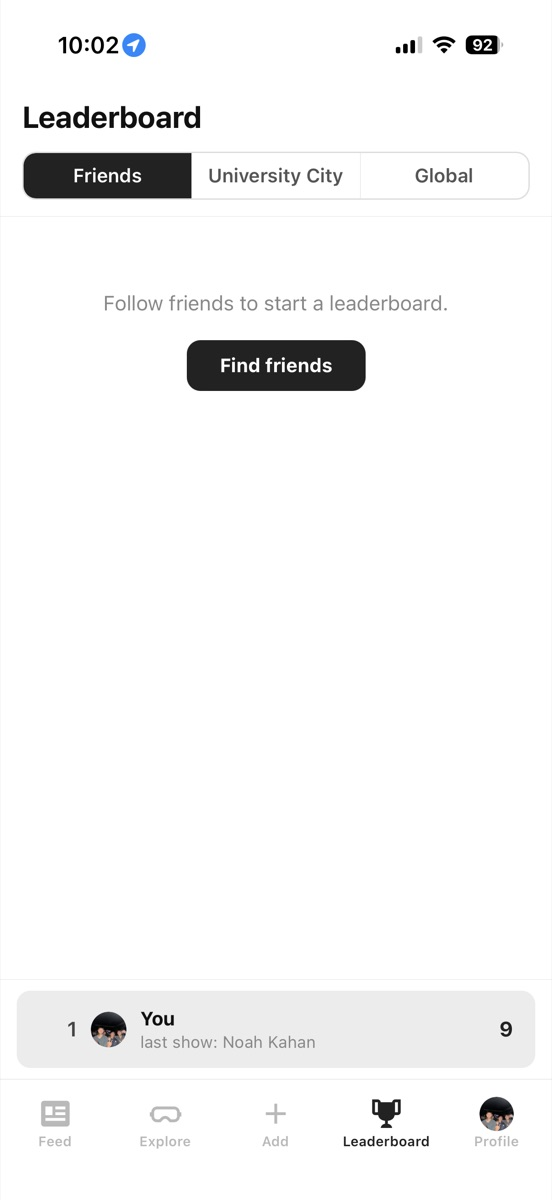
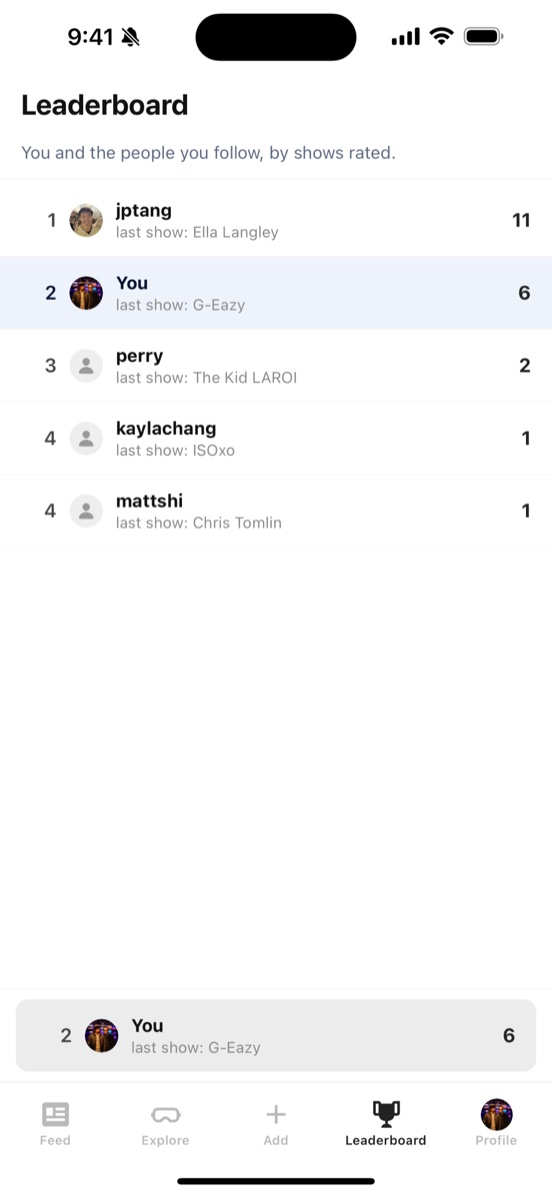
feat: refresh Jump gallery with current app screens
Replace the seven August screenshots with the nine from the App Store
listing set, and rewrite each description to match the current app:
Everyone and Friends feed tabs, the score gate, the add-a-concert search
split into upcoming and past shows, the two-step rating flow, and the
profile map. Tighten the card fan so nine cards fit the deck.

diff --git a/src/components/JumpGallery.tsx b/src/components/JumpGallery.tsx
@@ -7,46 +7,58 @@ type Screen = { key: string; label: string; desc: string; img: string };
 
 const SCREENS: Screen[] = [
   {
-    key: "feed",
-    label: "Feed",
-    desc: "Ratings and photos from everyone you follow, newest first. Each post carries the artist, the venue, the date, and the score that person gave the night, so you can see what your friends actually thought before you commit to a ticket. Photos and video from the show sit inline, and a caught-up divider marks where you left off last time.",
-    img: "/jump/feed.jpg",
-  },
-  {
     key: "explore",
     label: "Explore",
-    desc: "Upcoming shows near you, ordered against your own taste profile. Search any artist, then narrow by distance, genre, and price. Rows are grouped by genre with a near-you shelf and a new-artists-for-you shelf, both built from the genres and artists you rate most, so the further you get into your list the sharper the recommendations become.",
+    desc: "Upcoming shows near you, grouped into photo-led rows by genre with a near-you shelf underneath. Each card carries the artist, the date, and the venue, and the location chip defaults to where you are with a radius you can widen. Search any artist from the top, narrow by filters, or hit see all on a genre to browse the whole shelf. Show data comes from the Ticketmaster API and the rows are ordered against what you rate most.",
     img: "/jump/explore.jpg",
   },
   {
-    key: "explore-setlist",
+    key: "concert",
     label: "Upcoming Show",
-    desc: "Open any upcoming show and you get the setlist the artist has been playing on this tour, so you can hear what you are walking into before you buy. Every track has a preview you can play right there, which turns a lineup you half recognize into songs you actually know by the time you show up. Book tickets hands you straight to the seller to buy, and want to go saves the show to your list. Setlists come from the Setlist.fm API and show data from Ticketmaster.",
-    img: "/jump/explore-setlist.jpg",
+    desc: "Open an upcoming show and you get the setlist the artist played at their last tour stop, pulled from the Setlist.fm API, so you know what you are walking into before you buy. Every song has a 30 second preview you can play right there. Book tickets hands you to the seller, and want to go saves the show to your list.",
+    img: "/jump/concert.jpg",
+  },
+  {
+    key: "feed",
+    label: "Feed",
+    desc: "Ratings and photos from everyone on Jump or just the people you follow, newest first. Each post carries the artist, the venue, the date, who they went with, their notes, and the score they gave the night. Photos and video from the show sit inline, and you can like, comment, share, or add the concert to your own list. Scores stay hidden until an account has rated five shows, so a number always comes from a list with some shape to it.",
+    img: "/jump/feed.jpg",
+  },
+  {
+    key: "add",
+    label: "Add a Concert",
+    desc: "Search any artist and the results split into upcoming shows from Ticketmaster and past shows from Setlist.fm, each with the venue and the date. That split is what lets you rate a show from years ago as easily as the one you saw last night. Location and filter chips narrow the list when an artist has played a lot of nights.",
+    img: "/jump/add.jpg",
   },
   {
     key: "rate",
     label: "Rate a Show",
-    desc: "Rating starts with a gut reaction, liked, fine, or disliked, instead of a number nobody can calibrate. Jump then runs a short series of head-to-head comparisons against concerts you have already rated, and a binary search slots the new show into your ranking. The 0 to 10 score falls out of where it lands, and neighboring scores re-space themselves on every insert.",
+    desc: "Rating starts with a gut reaction, liked, fine, or disliked, instead of a number nobody can calibrate. Then you can tag who you went with, jot notes, and attach photos or a video, all of it optional and skippable. Continue moves you into the comparisons.",
     img: "/jump/rate.jpg",
+  },
+  {
+    key: "compare",
+    label: "Head to Head",
+    desc: "Jump asks which show was better, this one or that one, against concerts you have already rated. A binary search picks each matchup so a handful of taps is enough to slot the new show into your ranking, and too close to call is a real answer. The 0 to 10 score falls out of where it lands rather than being typed in.",
+    img: "/jump/compare.jpg",
+  },
+  {
+    key: "ranking",
+    label: "My Ranking",
+    desc: "Every show you have scored, in order, from 10.0 at the top down. Neighboring scores re-space themselves on every insert so the list stays honest as it grows. Sort highest, lowest, or A to Z, and tap any row to revisit the night or rerank it if it has climbed or slipped since.",
+    img: "/jump/ranking.jpg",
   },
   {
     key: "leaderboard",
     label: "Leaderboard",
-    desc: "A running count of who has been to the most shows, with friends, city, and global scopes. Your own row stays pinned to the bottom so you always know where you stand without hunting for yourself in the list. It turns going to concerts into something you and your friends can quietly compete over across a season.",
+    desc: "You and the people you follow, ranked by shows rated, with each person's most recent show beside their name. Ties share a rank. Your own row stays pinned to the bottom so you always know where you stand without hunting for yourself in the list.",
     img: "/jump/leaderboard.jpg",
   },
   {
     key: "profile",
     label: "Profile",
-    desc: "Your ranked concert list, your stats, and how often you actually go. Concerts over time charts attendance by day, month, or year, so a heavy festival summer is obvious at a glance. My ranking holds every show you have scored in order, and want to go keeps the ones you are still chasing.",
+    desc: "Your concert life in one place: concerts, followers, and following up top, then chips for your top genre, your average score, and the year you started. My ranking and want to go open as full lists. A private account toggle, friend discovery, and preferences sit in the middle, and a map of everywhere you have been counts your shows and cities underneath.",
     img: "/jump/profile.jpg",
-  },
-  {
-    key: "past-setlist",
-    label: "Past Show",
-    desc: "For a concert you have already been to, the full setlist is waiting when you open it. You can walk the night back song by song and hit the ones that stuck, the encore you did not expect, the track that everyone screamed. Playing a song pulls the memory straight back, and you can rerank the concert from here if it has climbed or slipped since. Setlist data is pulled from the Setlist.fm API and stays attached to the show.",
-    img: "/jump/past-setlist.jpg",
   },
 ];
 
@@ -223,9 +235,9 @@ export default function JumpGallery({
                         className="jg-card absolute left-1/2 top-1/2 w-[142px] overflow-hidden rounded-xl border border-black/10 bg-white shadow-xl md:w-[162px]"
                         style={{
                           zIndex: SCREENS.length - rel,
-                          transform: `translate(-50%, -50%) translateX(${pos * 22}px) translateY(${
+                          transform: `translate(-50%, -50%) translateX(${pos * 16}px) translateY(${
                             rel * 4
-                          }px) rotate(${pos * 2.4}deg) scale(${isActive ? 1.06 : 0.88})`,
+                          }px) rotate(${pos * 2}deg) scale(${isActive ? 1.06 : 0.88})`,
                           opacity: isActive ? 1 : 0.45,
                         }}
                       >
